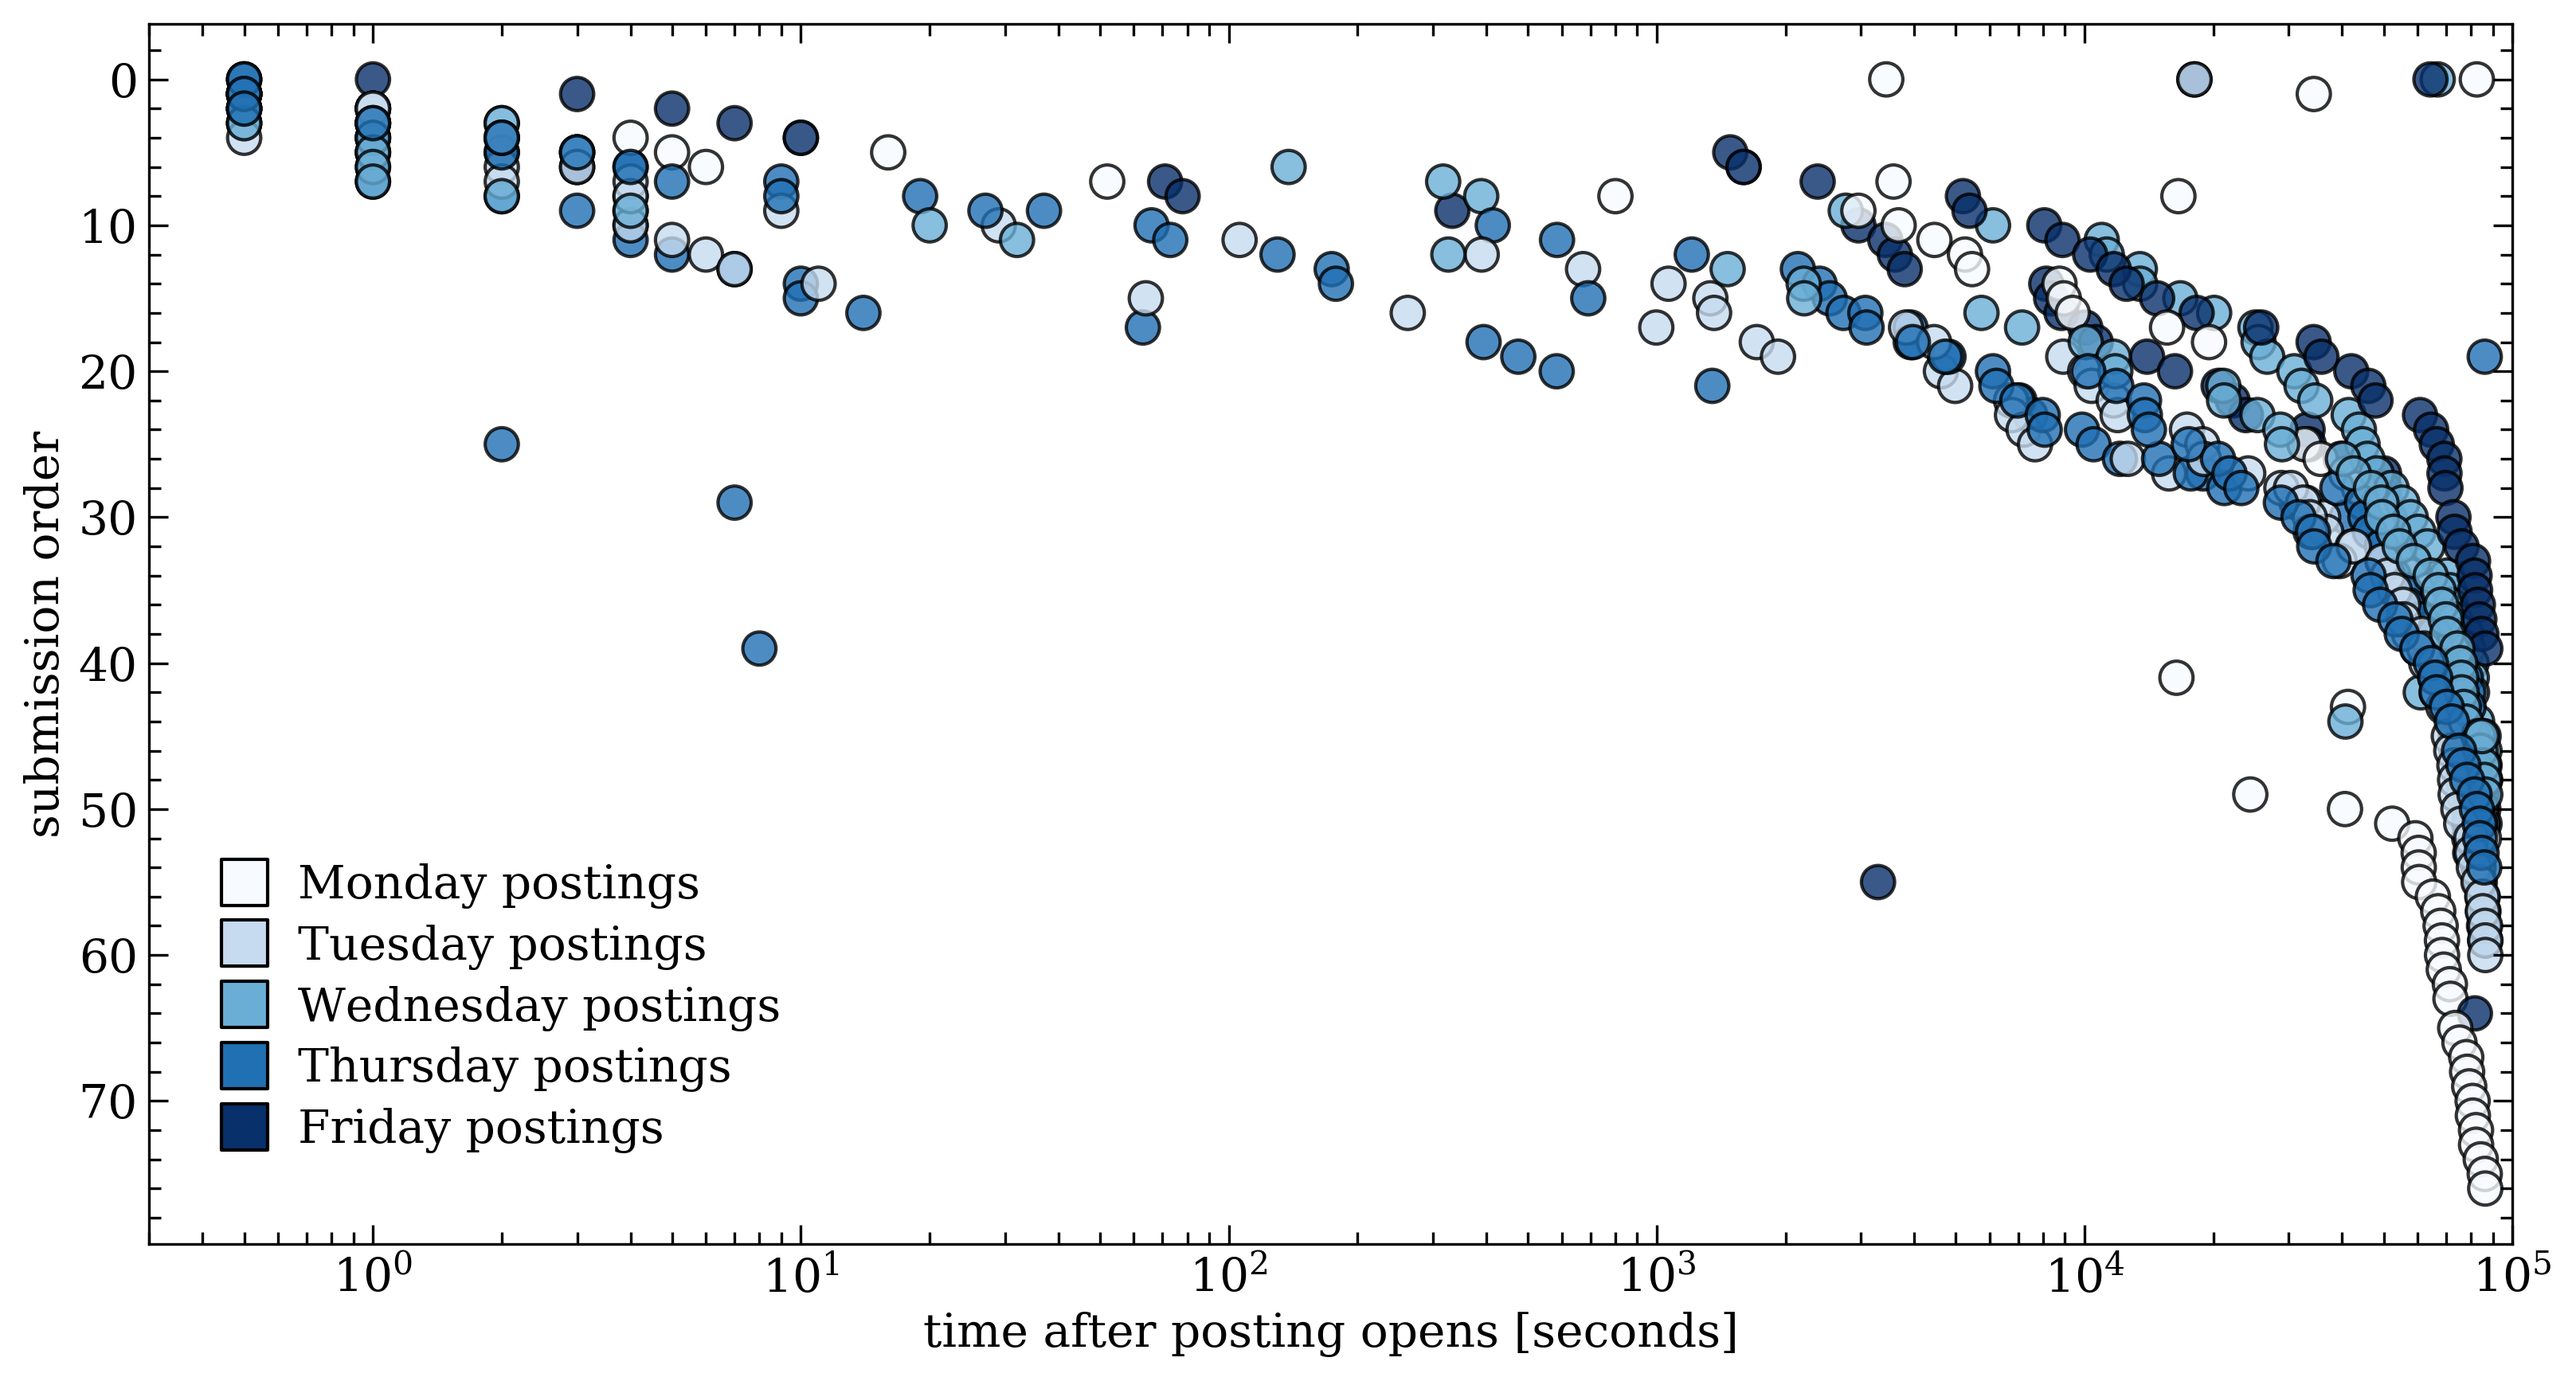
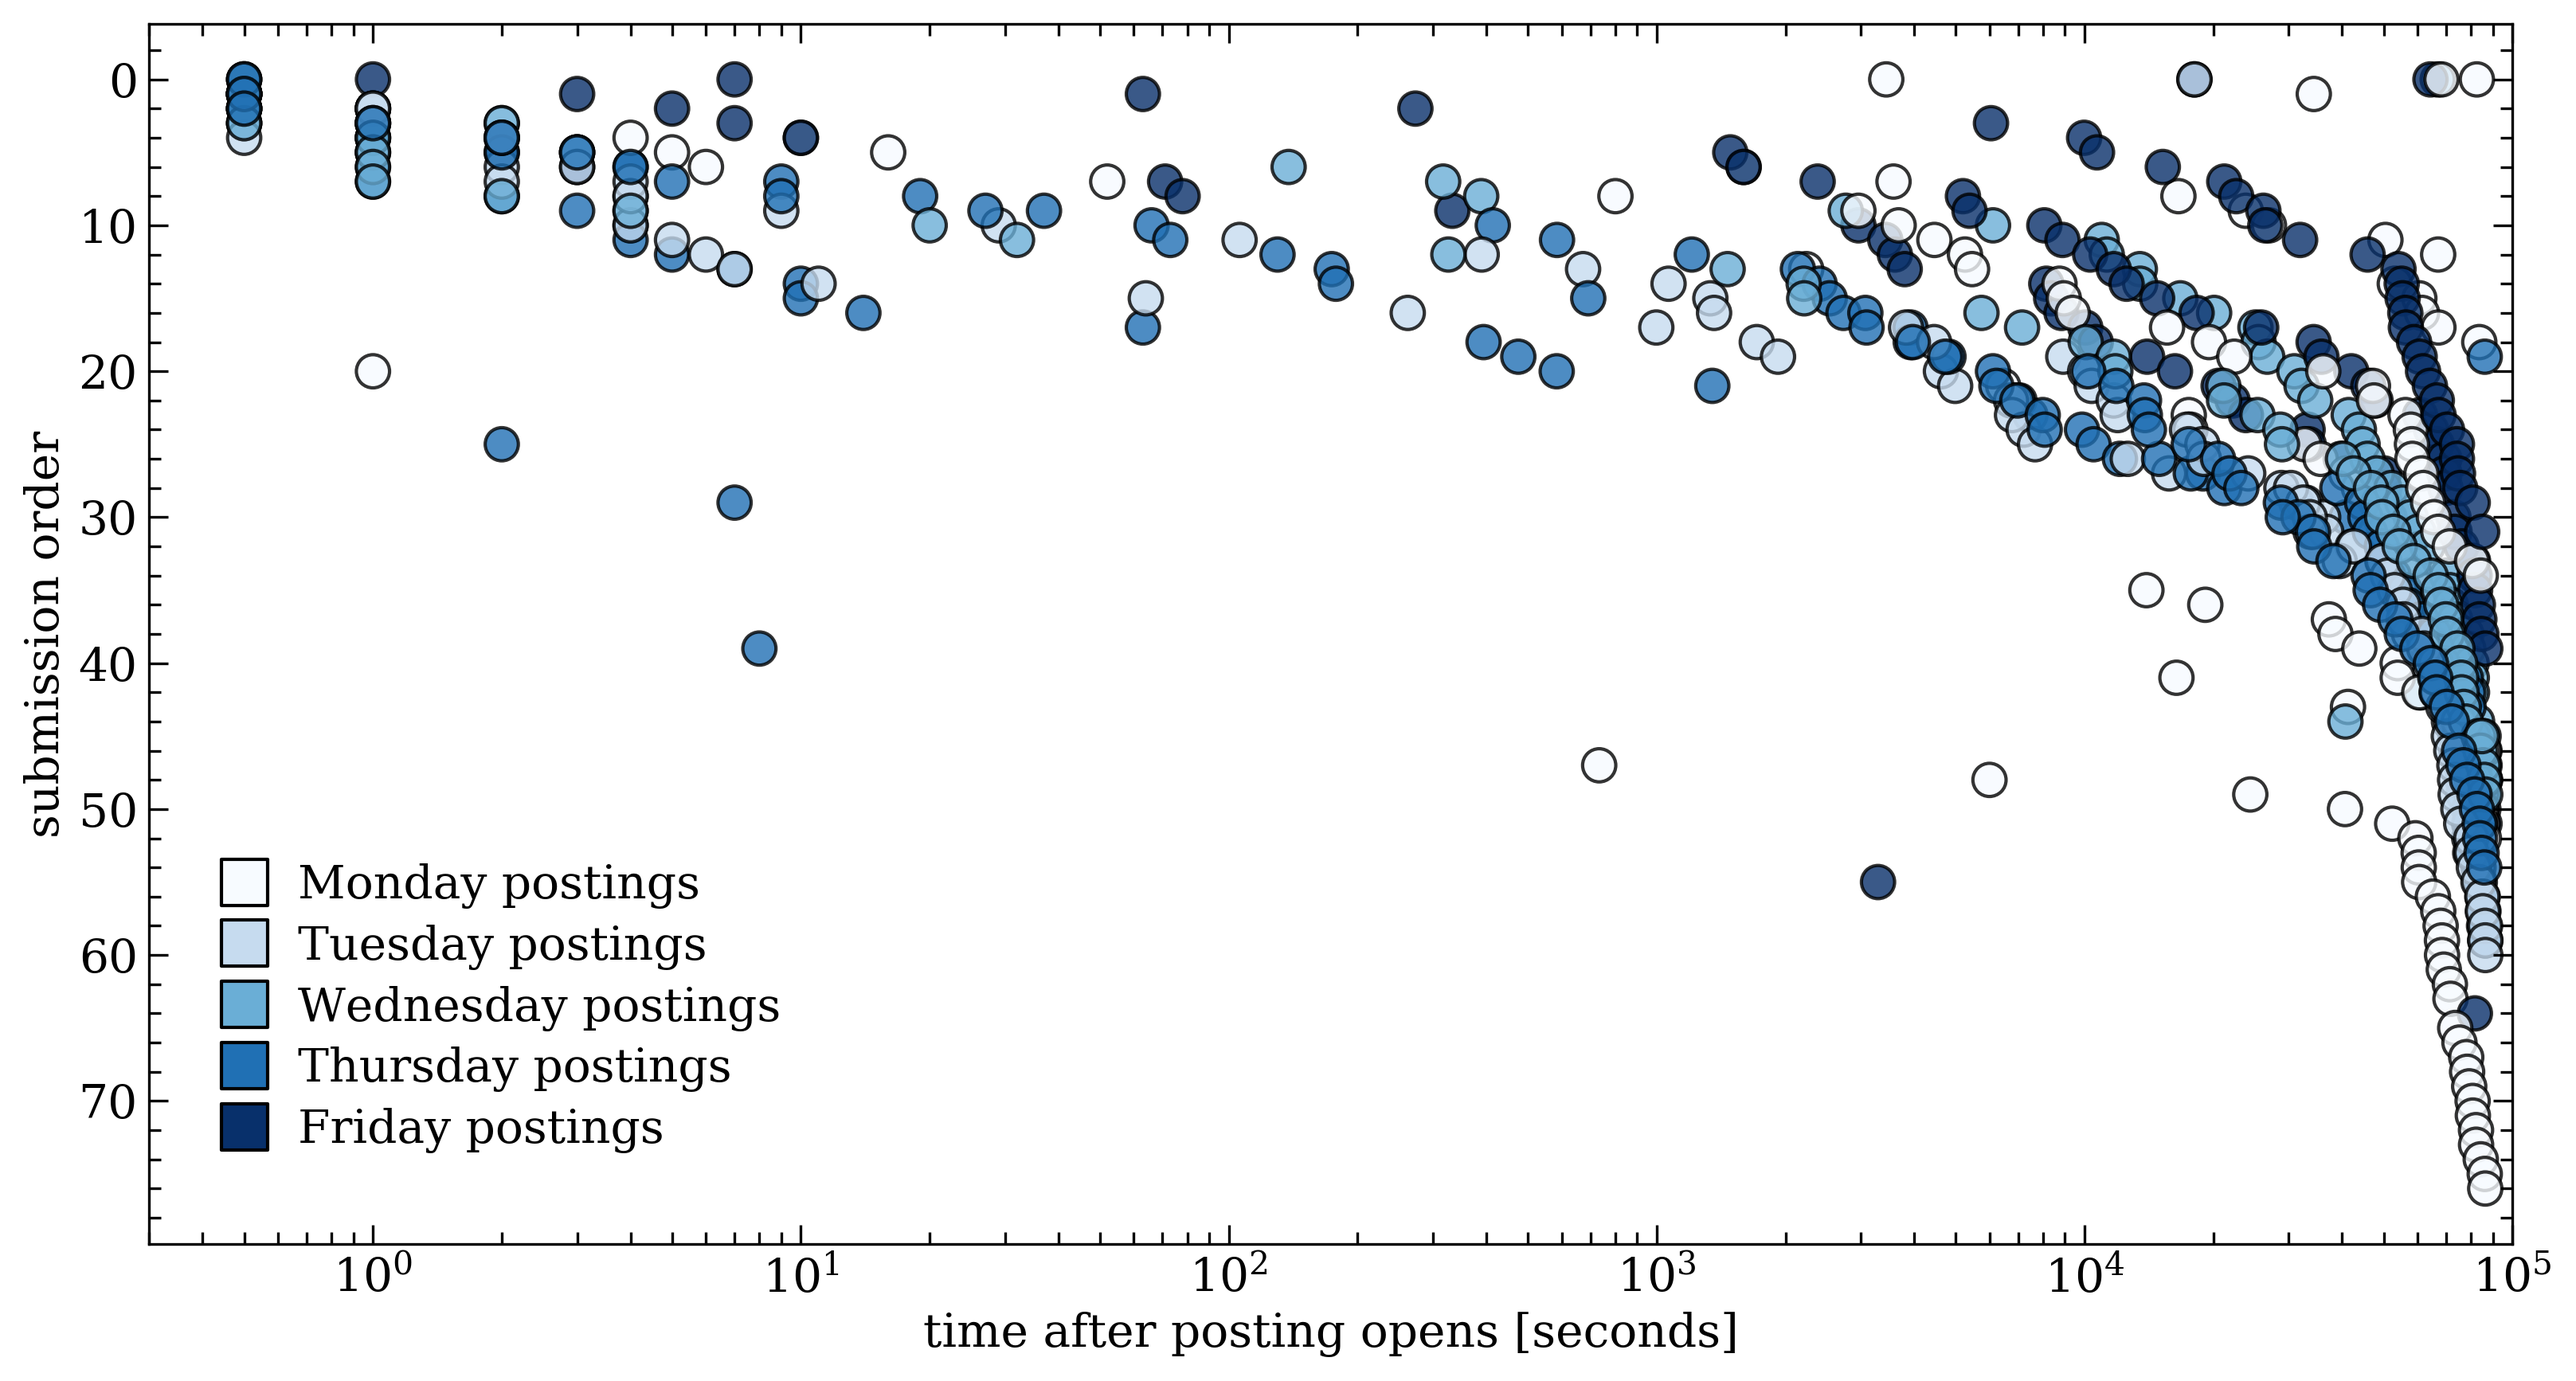
updates to code

diff --git a/plotting_submission_order.py b/plotting_submission_order.py
@@ -118,14 +118,35 @@ for sub in times:
 		indexing.append(count)
 		
 	# if the date is Fri and it's after the Fri submission time
-	if sub.strftime('%a') == 'Fri' and sub.time() >= submission_time:
+	elif sub.strftime('%a') == 'Fri' and sub.time() >= submission_time:
 		diff = sub - dt.combine(sub_date,submission_time)
 		seconds_since_sub.append(float(diff.seconds))
 		time_since_sub.append(str(diff))
 		coloring.append(0)
 		indexing.append(count)
 		
+	# if the date is Saturday
+	elif sub.strftime('%a') == 'Sat':
+		friday = dt.combine(sub_date,submission_time) - timedelta(days=1)
+		diff = sub - friday
+		seconds_since_sub.append(float(diff.seconds))
+		time_since_sub.append(str(diff))
+		coloring.append(0)
+		indexing.append(count)
+	
+	# if the date is Sunday
+	elif sub.strftime('%a') == 'Sun':
+		friday = dt.combine(sub_date,submission_time) - timedelta(days=2)
+		diff = sub - friday
+		seconds_since_sub.append(float(diff.seconds))
+		time_since_sub.append(str(diff))
+		coloring.append(0)
+		indexing.append(count)
+		
+	#else: print(sub.strftime('%a'), sub.time() < submission_time, sub.time() >= submission_time)
 	count += 1
+
+print(f'\nFull length: {len(post_df)}, Final length: {len(indexing)}.')
 
 # adding 0.35 seconds to the zero second differences
 seconds_since_sub = np.asarray(seconds_since_sub)
